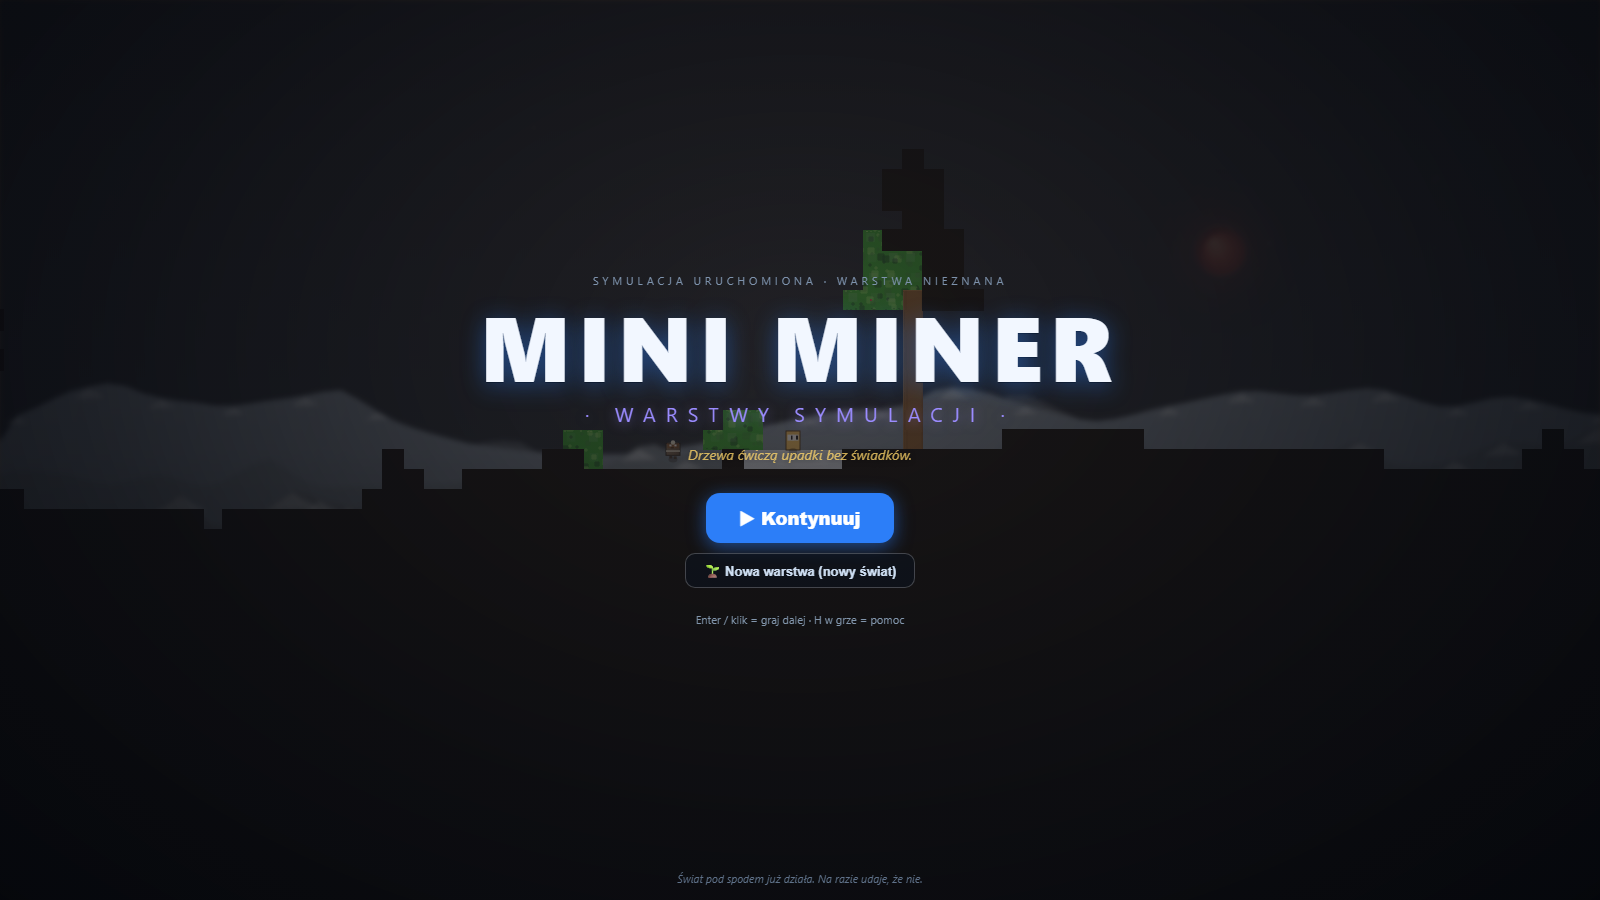
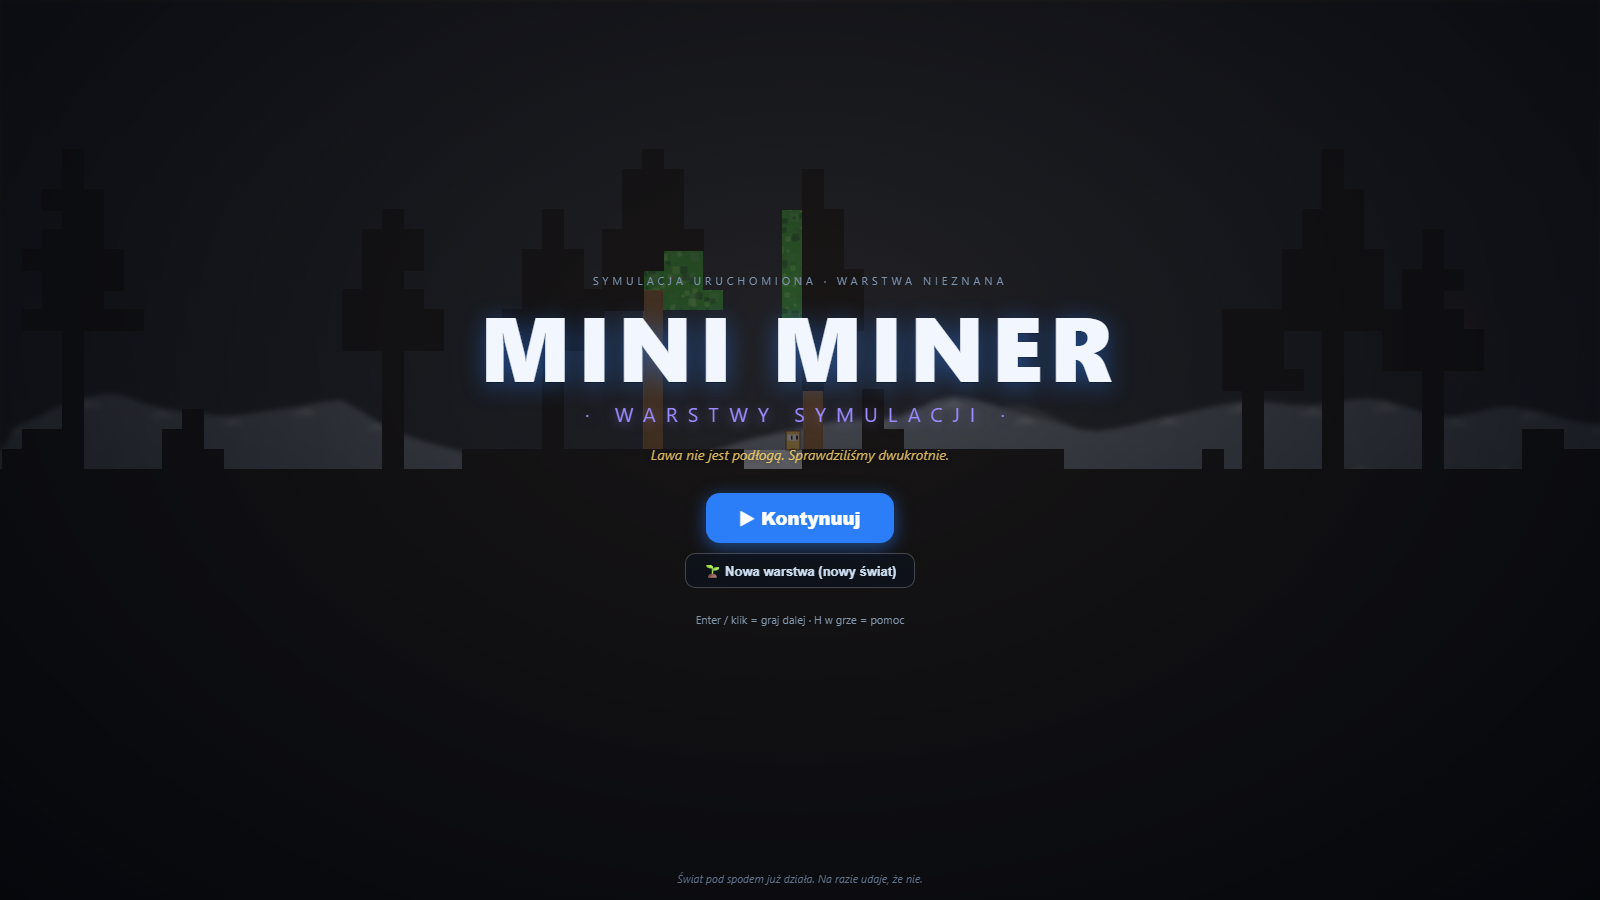
Make the layers count: cross-world veterancy and a knowledge keep-list
The story is about layers of simulation, so finishing one now counts.
finale.js tallies closed layers in mm_layers_v1 (exactly once per
world, on the unlock that the mother guardian's fall triggers) and the
credits open with it ('Zamknięte warstwy - 1 (ta pierwsza boli
najbardziej)'). The title screen greets returning observers with
'zamknięte warstwy: N' on the kicker and mixes five veteran-only
splashes into the rotation ('Znowu ty? Warstwa czuje się obserwowana.').

new_game.js grows a NEW_GAME_KNOWLEDGE_KEYS keep-list: player knowledge
survives a new world. That also fixes a real contract break - the
discovery journal's header promises 'starting a new world keeps what
the player already learned', but mm_discoveries_v1 was swept with the
gameplay keys (and the new-game test pinned the wrong behavior).
mm_finale_v1 (deaths, per-world seen flags) still resets as intended.

Tests updated on both sides: new-game-sim asserts the knowledge keys
survive, title-finale-sim covers the once-per-world increment, the
cross-world tally and the veteran splash pool; title-finale-qa gains a
scene 4 that reboots after the victory and reads the veteran kicker
off the real title screen. Full-arc QA still green.

Changed region(s): [[0.0938, 0.2178, 0.625, 0.5911], [0.625, 0.4356, 0.9062, 0.5289]]

diff --git a/src/engine/finale.js b/src/engine/finale.js
@@ -14,6 +14,9 @@ const finale = (function(){
   const root = (typeof window !== 'undefined') ? window : globalThis;
   const MM = root.MM = root.MM || {};
   const KEY = 'mm_finale_v1';
+  // Closed-layer tally: player knowledge, so it SURVIVES a new game (kept by
+  // NEW_GAME_KNOWLEDGE_KEYS in new_game.js) — each finished world adds one.
+  const LAYERS_KEY = 'mm_layers_v1';
 
   // The center guardian's epilogue speech runs ~20 s after the killing blow
   // (finale + epilogueArrival lines at 2.6–2.8 s spacing) — the banner slips
@@ -63,6 +66,22 @@ const finale = (function(){
   }
   load();
 
+  function completions(){
+    try{
+      if(typeof localStorage === 'undefined') return 0;
+      const d = JSON.parse(localStorage.getItem(LAYERS_KEY));
+      return Math.max(0, Math.floor(Number(d && d.completions) || 0));
+    }catch(e){ return 0; }
+  }
+  function addCompletion(){
+    try{
+      if(typeof localStorage === 'undefined') return;
+      localStorage.setItem(LAYERS_KEY, JSON.stringify({v: 1, completions: completions() + 1}));
+    }catch(e){ /* ignore */ }
+  }
+  // Cross-world veterancy for the title screen and the credits roll.
+  function layers(){ return {completions: completions()}; }
+
   // --- report model (Node-tested; every source is optional) ------------------
   // ctx overrides exist for tests; live callers pass nothing and the model
   // pulls from MM.progress / MM.discovery / MM.seasons / worldgen.
@@ -98,7 +117,9 @@ const finale = (function(){
   // Credits stay diegetic: the simulation thanks its own subsystems.
   function credits(rep){
     const r = rep || report();
+    const closed = completions();
     return [
+      ['Zamknięte warstwy', closed > 1 ? closed + ' (licząc tę — wprawa widoczna)' : (closed === 1 ? '1 (ta pierwsza boli najbardziej)' : 'wciąż otwarta')],
       ['Hero-Prostokąt', 'w roli Obserwatora — Ty'],
       ['Stary Kwadrat', 'w roli Guardiana Macierzystego (rola życia)'],
       ['Trzeci Kret', 'grał siebie, przez sen'],
@@ -253,7 +274,11 @@ const finale = (function(){
   function unlocked(){ return state.unlocked; }
 
   function unlock(){
-    if(!state.unlocked){ state.unlocked = true; persist(); }
+    if(!state.unlocked){
+      state.unlocked = true;
+      persist();
+      addCompletion(); // exactly once per world: the layer counts as closed
+    }
     syncMenuButton();
     if(!state.seen){
       state.bannerT = BANNER_DELAY;
@@ -302,7 +327,7 @@ const finale = (function(){
     });
   }
 
-  const api = { report, credits, open, close, isOpen, unlocked, unlock, update, wire, reset, metrics,
+  const api = { report, credits, open, close, isOpen, unlocked, unlock, update, wire, reset, metrics, layers,
     config: {BANNER_DELAY, AUTO_OPEN_DELAY},
     _debug: {state} };
   MM.finale = api;

diff --git a/src/engine/title_screen.js b/src/engine/title_screen.js
@@ -42,6 +42,15 @@ const titleScreen = (function(){
     'Ocean ma dno, żebyś miał gdzie szukać wraków.',
     'Wulkan przyjmuje ofiary. Zwrotów nie przewidziano.'
   ];
+  // Extra lines for observers who have already closed a layer (finale.layers):
+  // the simulation remembers being watched and gets a little self-conscious.
+  const VETERAN_SPLASHES = [
+    'Znowu ty? Warstwa czuje się obserwowana.',
+    'Drzewa już nie udają. Wiedzą, że wiesz.',
+    'Stary Kwadrat poprosi o wodę. Tym razem naprawdę chce pić.',
+    'Nowa warstwa, stare nawyki kursora.',
+    'Symulacja przygotowała się na twoje spojrzenie. Trochę.'
+  ];
 
   const state = {
     open: false,
@@ -67,12 +76,20 @@ const titleScreen = (function(){
     if(/headless/i.test(String(e.ua || ''))) return true;
     return false;
   }
+  function closedLayers(){
+    try{ return Math.max(0, Math.floor(Number(MM.finale && MM.finale.layers && MM.finale.layers().completions) || 0)); }
+    catch(e){ return 0; }
+  }
+  function splashPool(){
+    return closedLayers() > 0 ? SPLASHES.concat(VETERAN_SPLASHES) : SPLASHES;
+  }
   function pickSplash(rand){
     const r = (typeof rand === 'function') ? rand : Math.random;
-    let idx = Math.floor(Math.max(0, Math.min(0.999999, Number(r()) || 0)) * SPLASHES.length);
-    if(idx === state.splashIdx) idx = (idx + 1) % SPLASHES.length; // never repeat back-to-back
+    const pool = splashPool();
+    let idx = Math.floor(Math.max(0, Math.min(0.999999, Number(r()) || 0)) * pool.length);
+    if(idx === state.splashIdx) idx = (idx + 1) % pool.length; // never repeat back-to-back
     state.splashIdx = idx;
-    return SPLASHES[idx];
+    return pool[idx];
   }
 
   // --- DOM -------------------------------------------------------------------
@@ -86,7 +103,10 @@ const titleScreen = (function(){
     if(state.el || typeof document === 'undefined') return state.el;
     const el = node('div'); el.id = 'titleScreen';
     const inner = node('div', 'tsInner');
-    inner.appendChild(node('div', 'tsKicker', 'symulacja uruchomiona · warstwa nieznana'));
+    const closed = closedLayers();
+    inner.appendChild(node('div', 'tsKicker', closed > 0
+      ? 'symulacja uruchomiona · zamknięte warstwy: ' + closed
+      : 'symulacja uruchomiona · warstwa nieznana'));
     inner.appendChild(node('h1', 'tsTitle', 'MINI MINER'));
     inner.appendChild(node('div', 'tsSub', '· Warstwy Symulacji ·'));
     state.splashEl = node('div', 'tsSplash', pickSplash());

diff --git a/src/engine/new_game.js b/src/engine/new_game.js
@@ -24,7 +24,16 @@ export const NEW_GAME_PREFERENCE_KEYS = Object.freeze([
   'mm_world_settings_v2'
 ]);
 
-const PREFERENCE_KEYS = new Set(NEW_GAME_PREFERENCE_KEYS);
+// Player KNOWLEDGE (not world state) also survives a reset: the discovery
+// journal explicitly promises "starting a new world keeps what the player
+// already learned" (discovery.js), and the closed-layer tally is the whole
+// point of starting another layer (finale.js).
+export const NEW_GAME_KNOWLEDGE_KEYS = Object.freeze([
+  'mm_discoveries_v1',
+  'mm_layers_v1'
+]);
+
+const PREFERENCE_KEYS = new Set([...NEW_GAME_PREFERENCE_KEYS, ...NEW_GAME_KNOWLEDGE_KEYS]);
 
 export function queueFreshWorldSeed(storage,random=Math.random){
   if(!storage || typeof storage.setItem!=='function') return null;